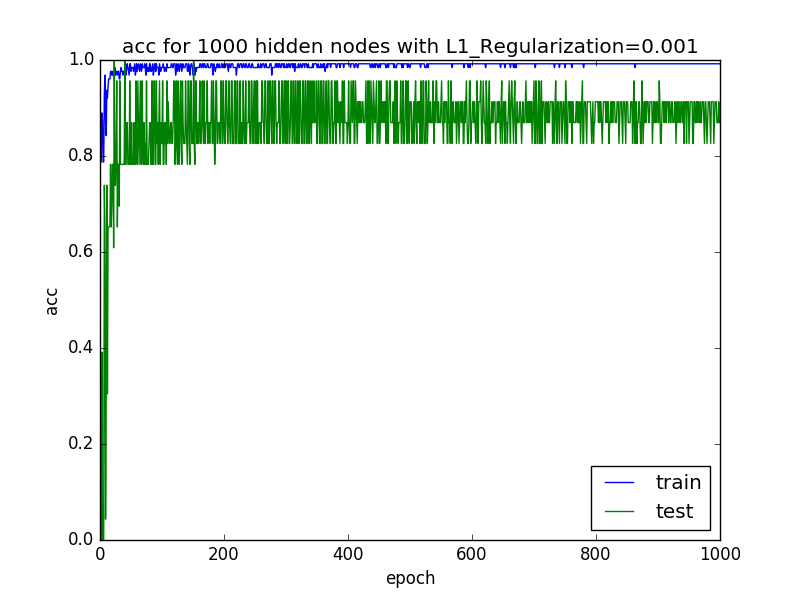
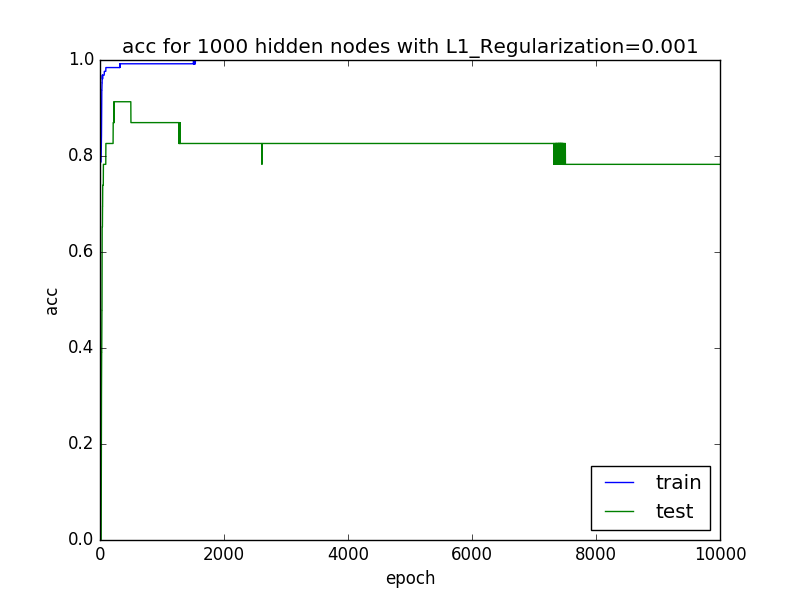
Graphs for 10k epochs and Dropout=0.8 added, must fix a problem with data train set

diff --git a/Tarefa3/FC2Layer_regularization.py b/Tarefa3/FC2Layer_regularization.py
@@ -38,7 +38,7 @@ VALIDATIONPERC = 0.15
 # Model Options
 l1Reg = 0.001
 l2Reg = 0.001
-dropout = 0.4
+dropout = 0.8
 hidden_nodes = [1000] # Vector with hidden_nodes on second layer use [x1, x2, x3, ..., xn]
 
 ########################
@@ -86,9 +86,15 @@ def plotGraph (filename, nodes, vecTrain, vecTest, nameVec):
 #load iris dataset
 dataframe = pandas.read_csv("dataset/iris.csv",header=None)
 dataset = dataframe.values
+numberOfPoints = len(dataset)
+trainPoints = int(numberOfPoints*VALIDATIONPERC)
 # training data
-X = dataset[:,0:4].astype(float)
-Y = dataset[:,4]
+X = dataset[:trainPoints,0:4].astype(float)
+Y = dataset[:trainPoints,4]
+# test data
+X_test = dataset[trainPoints:,0:4]
+Y_test = dataset[trainPoints:,4]
+
 
 # encode class values as integers
 encoder = LabelEncoder()
@@ -96,7 +102,13 @@ encoder.fit(Y)
 encoded_Y = encoder.transform(Y)
 # convert integers to dummy variables (i.e. one hot encoded)
 dummy_y = np_utils.to_categorical(encoded_Y)
-
+print("dummy_y.shape=",dummy_y.shape)
+# encode class values as integers
+encoder.fit(Y_test)
+encoded_Y_test = encoder.transform(Y_test)
+# convert integers to dummy variables (i.e. one hot encoded)
+dummy_y_test = np_utils.to_categorical(encoded_Y_test)
+print("dummy_y_test.shape=",dummy_y_test.shape)
 
 print("----------------------------------")
 print("Using Batch =",BATCHSIZE ,"Epoch = ",EPOCH, "Validation_split = ",VALIDATIONPERC)
@@ -138,7 +150,7 @@ for h in range(0, len(hidden_nodes)):
 		model.compile(loss='categorical_crossentropy', optimizer='adam', metrics=['accuracy'])
 
 		# Fit model	
-		history = model.fit(X,dummy_y,validation_split=VALIDATIONPERC,nb_epoch=EPOCH,batch_size=BATCHSIZE,verbose=0)
+		history = model.fit(X,dummy_y,validation_data=(X_test,dummy_y_test),nb_epoch=EPOCH,batch_size=BATCHSIZE,verbose=0)
 		print("val_acc = %.4f"%history.history["val_acc"][EPOCH-1]," acc = %.4f"%history.history["acc"][EPOCH-1])	
 		print("val_loss = %.4f"%history.history["val_loss"][EPOCH-1]," loss = %.4f"%history.history["loss"][EPOCH-1])	
 		# Show time elapsed
